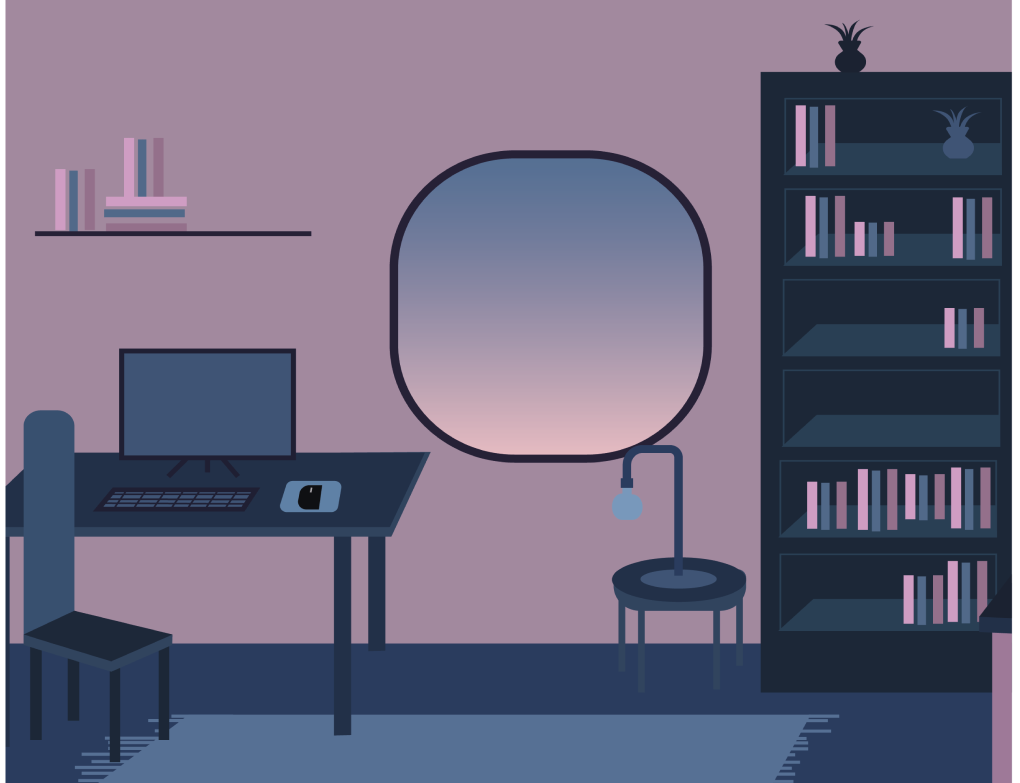
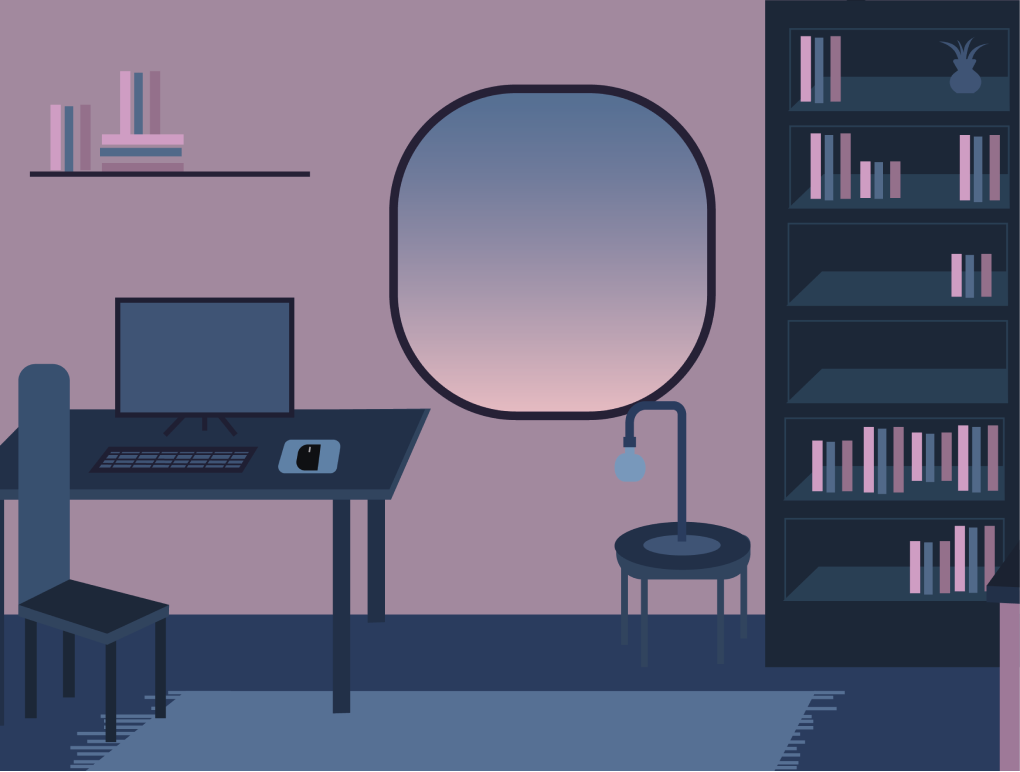
room2_1020 i SVG är skarpare

diff --git a/dist/index.html b/dist/index.html
@@ -73,13 +73,15 @@
     
 
   <main>
+    <!-- WELCOME SECTION -->
   <section class="container">
     <a id="welcome"></a>
    <!--  <div class="welcome-container"> -->
       <picture>
-        <source srcset="/nudu.c619909a.png" media="(min-width: 800px)">
-        <source srcset="/nudu.c619909a.png" media="(min-width: 400px)">
-        <img src="/room1_mobile.8b08159e.png" class="room-img" alt="">
+        <source srcset="/room1_1020.fcab798f.png" media="(min-width: 900px)">
+        <source srcset="/room1_mobile_800.6497e53f.png" media="(min-width: 700px)">
+        <source srcset="/room1_mobile_480.22fd03ac.png" media="(min-width: 400px)">
+        <img src="/room1_mobile_370.0d799fb8.png" class="room-img" alt="">
       </picture>
 
       
@@ -107,7 +109,7 @@
   <!--   </div> -->
   </section>
 
-    <!---->
+    <!-- PROGRAM SECTION -->
     <section class="program">
       <a id="program"></a>
       <div class="program-container">
@@ -133,14 +135,19 @@
     </section>
         
     
-    <!-- RSVP -->
+    <!-- RSVP SECTION -->
     <section class="container">
       <a id="welcome"></a>
       <!--  <div class="welcome-container"> -->
       <picture>
-        <source srcset="/room2.e059f860.png" media="(min-width: 800px)">
-        <source srcset="/room2.e059f860.png" media="(min-width: 400px)">
-        <img src="/room2.e059f860.png" class="room-img" alt="">
+        <source srcset="/room2_1020.505da56b.svg" media="(min-width: 900px)">
+        <source srcset="/room2_mobile_800.871c9967.png" media="(min-width: 600px)">
+        <source srcset="/room2_mobile_480.425908b1.png" media="(min-width: 400px)">
+        <img src="/room2_mobile_370.be6e4d0b.png" class="room-img" alt="">
+
+        <!--<source srcset="/assets/img/room2.png" media="(min-width: 800px)" />
+        <source srcset="/assets/img/room2.png" media="(min-width: 400px)" />
+        <img src="assets/img/room2.png" class="room-img" alt="" /> -->
       </picture>
     
     
@@ -174,17 +181,10 @@
       <a id="rsvp"></a>
       <div class="rsvp-container">
         <picture>
-          <source
-              srcset="/assets/img/room2.png.jpg"
-              media="(min-width: 800px)"
-              class="fp-img"
-            />
-            <source
-              srcset="/assets/img/room2.png"
-              media="(min-width: 400px)"
-              class="fp-img"
-            />
-            <img src="/assets/img/högrum1.png" class="fp-img" alt=""/>
+          <source srcset="/assets/img/room-3/room3_1020.png" media="(min-width: 900px)" />
+          <source srcset="/assets/img/room-3/room3_mobile_800.png" media="(min-width: 700px)" />
+          <source srcset="/assets/img/room-3/room3_mobile_480.png" media="(min-width: 400px)"  />
+        <img src="/assets/img/room-3/room3_mobile_370.png" class="room-img" alt="" />
           </picture>
           <div class="paper-left">
             <div class="rsvp-content">
@@ -349,12 +349,12 @@
       this[globalName] = mainExports;
     }
   }
-})({"8606e432e49e28ec3414dcf2996b32a1":[function(require,module,exports) {
+})({"e4ff640a8adb26da97bf5f6fbee100e0":[function(require,module,exports) {
 var global = arguments[3];
 var HMR_HOST = null;
 var HMR_PORT = 1234;
 var HMR_ENV_HASH = "d751713988987e9331980363e24189ce";
-module.bundle.HMR_BUNDLE_ID = "3689ca1486b171f8ce636d2ce3007784";
+module.bundle.HMR_BUNDLE_ID = "c6abc89bf8151e8afd7e848a7311d5cf";
 /* global HMR_HOST, HMR_PORT, HMR_ENV_HASH */
 
 var OVERLAY_ID = '__parcel__error__overlay__';
@@ -625,11 +625,11 @@ function hmrAcceptRun(bundle, id) {
 
   acceptedAssets[id] = true;
 }
-},{}],"96cf15dd1f96b14ce66e4ff3a60f1cc6":[function(require,module,exports) {
+},{}],"64479894fe115ac400585ae4156b03e3":[function(require,module,exports) {
 AOS.init();
-},{}]},{},["8606e432e49e28ec3414dcf2996b32a1","96cf15dd1f96b14ce66e4ff3a60f1cc6"], null)
+},{}]},{},["e4ff640a8adb26da97bf5f6fbee100e0","64479894fe115ac400585ae4156b03e3"], null)
 
[2 lines of base64/hex data omitted]
 </script>
   </body>
 </html>

diff --git a/index.html b/index.html
@@ -142,7 +142,7 @@
       <a id="welcome"></a>
       <!--  <div class="welcome-container"> -->
       <picture>
-        <source srcset="/assets/img/room-2/room2_1020.png" media="(min-width: 900px)" />
+        <source srcset="/assets/img/room-2/room2_1020.svg" media="(min-width: 900px)" />
         <source srcset="/assets/img/room-2/room2_mobile_800.png" media="(min-width: 600px)" />
         <source srcset="/assets/img/room-2/room2_mobile_480.png" media="(min-width: 400px)"  />
         <img src="/assets/img/room-2/room2_mobile_370.png" class="room-img" alt="" />

diff --git a/dist/styles.f2f7eaee.css b/dist/styles.f2f7eaee.css
@@ -1,8 +1,3 @@
-* {
-  box-sizing: border-box;
-  margin: 0;
-}
-
 body {
   max-height: 100vh;
   display: flex;
@@ -16,6 +11,12 @@ body {
   display: flex;
   height: 100vh;
 } */
+
+/* vill försöka ge sidan en max-width för stora skärmar så bilder inte blir
+blurriga. Behöver sätta max-width på en/flera? parent-element och width i % på children */
+main {
+  max-width: 500px;
+}
 
 /* fd welcome-container */
 .container {
